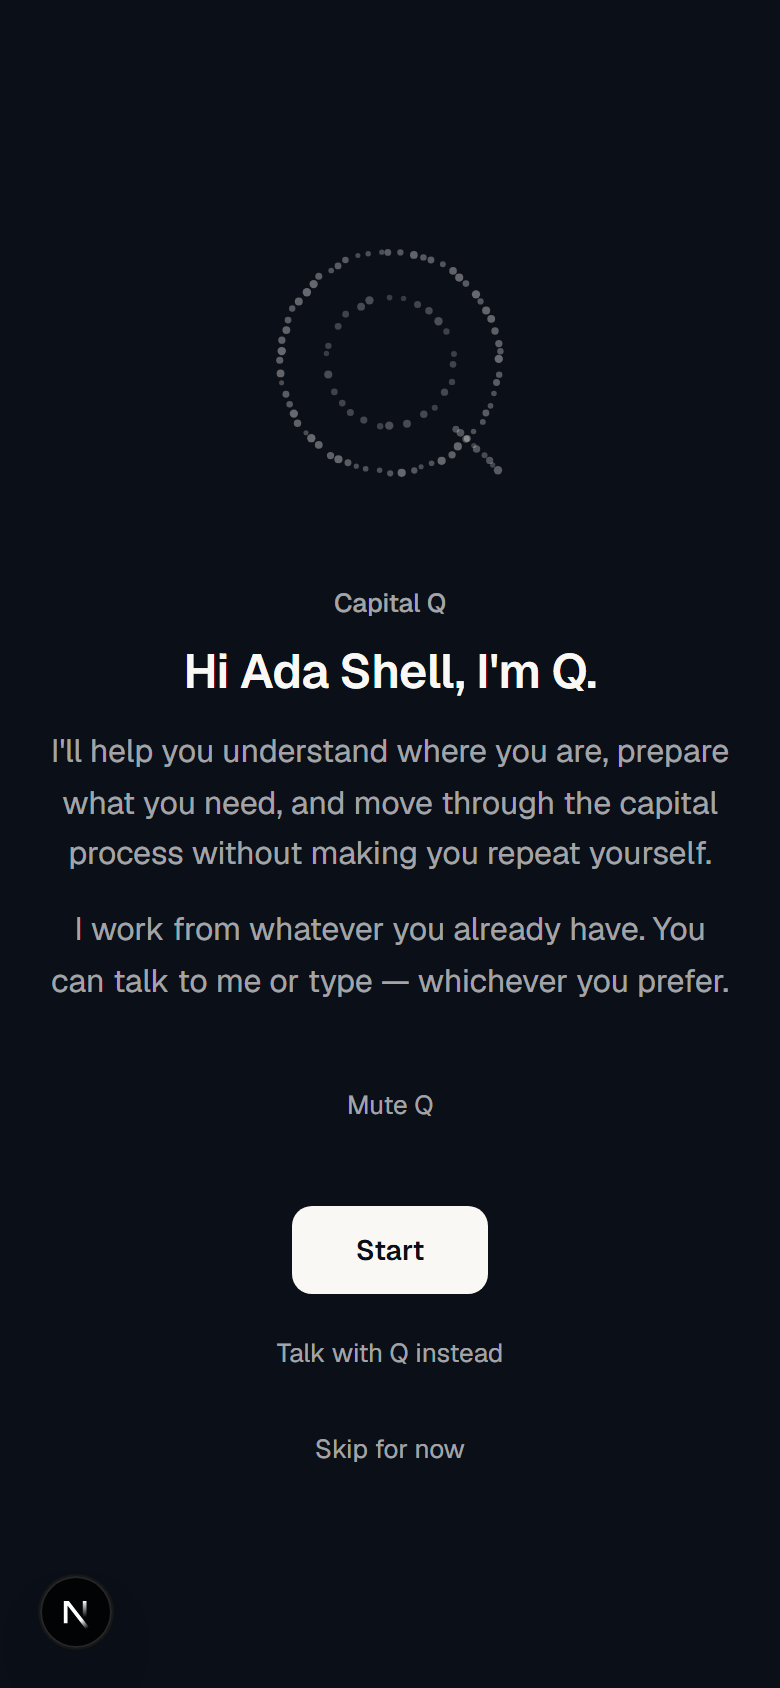
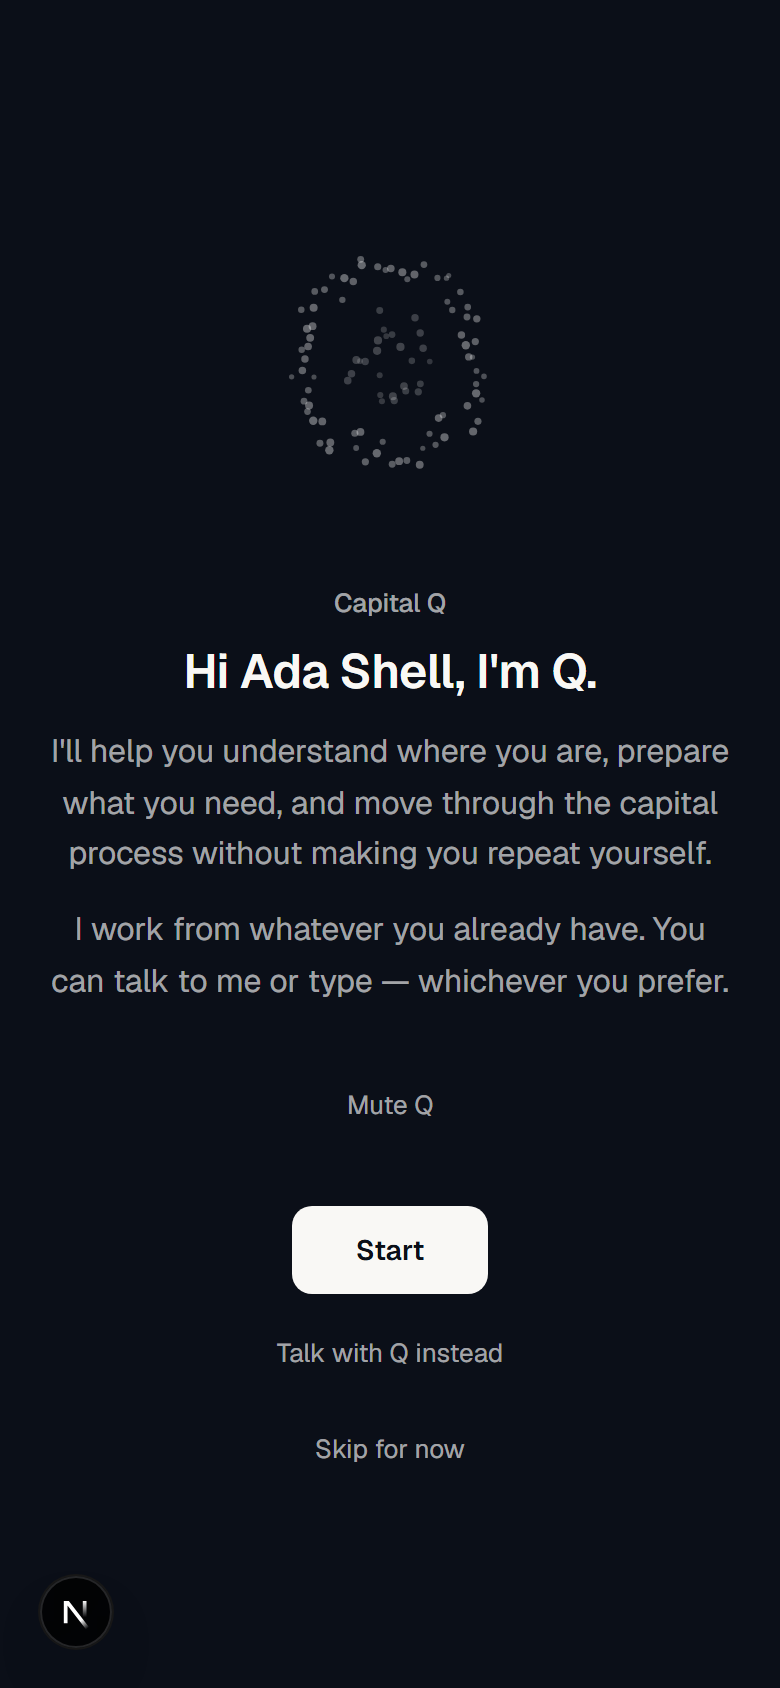
Q shell A4: the presence is a swarm, not a letterform
The field drew a Q -- two rings and a tail -- and the sprint brief asks
for a swarm presence with no letter. The formation is now a loose
annulus with a sparser cloud inside it, and the seven states are carried
by its radius, density and coherence rather than by a glyph: idle drifts
loose and quiet; listening opens and loosens with the person's voice;
thinking draws in, tightens toward order and turns; speaking pulses
outward in rhythm with Q's own voice; an action sweeps once to the side;
a settle pulses once and gathers; an error scatters and dims. The cloud
gathers less than the band, so an ordered field is a ring around a
cluster and never a bullseye.

Same component API, same states, same tokens, same still frame under
reduced motion; only features/q-presence/particle-field.ts changes.
Gallery and Home/Welcome captures re-taken.

Changed region(s): [[0.3385, 0.154, 0.6462, 0.2773]]

diff --git a/apps/web/src/features/q-presence/particle-field.ts b/apps/web/src/features/q-presence/particle-field.ts
@@ -1,26 +1,29 @@
 import type { QPresenceState } from "./presence-state";
 
 /**
- * The particle formation behind Q's presence.
+ * The swarm behind Q's presence.
  *
- * A ring of points with a short tail at the lower right — the shape of a
- * Q, read at a glance and never drawn as a letter. Every particle has a
- * home on that formation and is eased toward a target that the state
- * moves: outward and loosened by the person's voice, inward and ordered
- * while Q thinks, brightened by Q's own voice, swept sideways once when Q
- * acts, settled with one pulse when it is done, and roughened — not
- * reddened — when something is wrong.
+ * Not a letter. A loose annulus of points — a band, with a sparser cloud
+ * inside it — whose radius, density and coherence carry what Q is doing.
+ * At rest the band is loose and drifting; the person's voice opens and
+ * loosens it; Q's thinking draws it in, tightens it into near-order and
+ * turns it; Q's own voice pulses it outward in rhythm; an action sweeps
+ * it once to the side; a settle pulses it once and stills it; an error
+ * scatters and dims it — never reddens, never flashes.
  *
  * Pure arithmetic over a plain array; no DOM here. The component owns the
  * canvas and the clock. Deterministic per particle (seeded), so the same
- * presence looks the same on every mount.
+ * presence looks the same on every mount, and the still frame under
+ * reduced motion is the same still frame every time.
  */
 
 export type Particle = {
-  /** Angle on the ring, radians. */
+  /** Angle on the annulus, radians. */
   readonly angle: number;
-  /** Which orbit: 0 outer ring, 1 inner ring, 2 tail. */
-  readonly orbit: 0 | 1 | 2;
+  /** Which population: 0 the band, 1 the inner cloud. */
+  readonly orbit: 0 | 1;
+  /** Where in its population's radial range this particle rests, 0..1. */
+  readonly depth: number;
   /** Per-particle phase for drift, 0..2π. */
   readonly phase: number;
   /** Per-particle scalar in 0..1, for size and drift amplitude. */
@@ -32,7 +35,7 @@ export type Particle = {
 
 export type Formation = {
   readonly particles: Particle[];
-  /** Radius of the outer ring at rest, in canvas units. */
+  /** Outer radius of the band at rest, in canvas units. */
   readonly radius: number;
 };
 
@@ -48,21 +51,28 @@ function seeded(seed: number): () => number {
   };
 }
 
+/** The band occupies this share of the radius; the cloud sits inside it. */
+const BAND_INNER = 0.66;
+const BAND_OUTER = 1;
+const CLOUD_INNER = 0.12;
+const CLOUD_OUTER = 0.52;
+/** Where the band gathers when it is fully coherent. */
+const BAND_MEAN = 0.84;
+
 /**
  * Lay the particles out. The count is the caller's (it follows the size);
- * roughly two thirds sit on the outer ring, a quarter on the inner ring,
- * the rest along the tail.
+ * roughly three quarters form the band, the rest the inner cloud.
  */
 export function createFormation(count: number, radius: number): Formation {
   const random = seeded(7);
   const particles: Particle[] = [];
-  const tail = Math.max(3, Math.round(count * 0.09));
-  const inner = Math.max(6, Math.round(count * 0.26));
-  const outer = Math.max(8, count - tail - inner);
-  const push = (angle: number, orbit: 0 | 1 | 2) => {
+  const cloud = Math.max(6, Math.round(count * 0.26));
+  const band = Math.max(12, count - cloud);
+  const push = (angle: number, orbit: 0 | 1) => {
     particles.push({
       angle,
       orbit,
+      depth: random(),
       phase: random() * Math.PI * 2,
       seed: random(),
       x: 0,
@@ -70,40 +80,15 @@ export function createFormation(count: number, radius: number): Formation {
       alpha: 0,
     });
   };
-  for (let i = 0; i < outer; i += 1) {
-    // Evenly spaced with a little jitter so the ring reads as a swarm and
-    // not as a dotted line.
-    push(((i + (random() - 0.5) * 0.35) / outer) * Math.PI * 2, 0);
+  for (let i = 0; i < band; i += 1) {
+    // Evenly spread with jitter, so the band reads as a swarm and never
+    // as a dotted line.
+    push(((i + (random() - 0.5) * 0.7) / band) * Math.PI * 2, 0);
   }
-  for (let i = 0; i < inner; i += 1) {
-    push(((i + (random() - 0.5) * 0.5) / inner) * Math.PI * 2 + 0.3, 1);
-  }
-  for (let i = 0; i < tail; i += 1) {
-    push((i + 0.5) / tail, 2);
+  for (let i = 0; i < cloud; i += 1) {
+    push(random() * Math.PI * 2, 1);
   }
   return { particles, radius };
-}
-
-/** Where a particle rests, before any state moves it. */
-function home(
-  particle: Particle,
-  radius: number,
-): { readonly x: number; readonly y: number } {
-  if (particle.orbit === 2) {
-    // The tail: a short stroke from the ring's lower-right edge outward,
-    // at the angle a Q's tail leaves the bowl.
-    const t = particle.angle; // 0..1 along the tail
-    const from = Math.PI * 0.25;
-    const startX = Math.cos(from) * radius * 0.82;
-    const startY = Math.sin(from) * radius * 0.82;
-    const length = radius * 0.62;
-    return {
-      x: startX + Math.cos(from) * length * t,
-      y: startY + Math.sin(from) * length * t,
-    };
-  }
-  const r = particle.orbit === 0 ? radius : radius * 0.58;
-  return { x: Math.cos(particle.angle) * r, y: Math.sin(particle.angle) * r };
 }
 
 export type FieldInput = {
@@ -139,10 +124,15 @@ export function stepFormation(formation: Formation, input: FieldInput): void {
   const voice = state === "SPEAKING" ? input.output : 0;
 
   // Formation-wide parameters per state.
+  /** Overall scale of the field. */
   let spread = 1;
+  /** Rotation of the band, radians. */
   let rotation = 0;
-  let drift = 0.02;
-  let order = 0.6;
+  /** Amplitude of per-particle wander, as a share of the radius. */
+  let drift = 0.035;
+  /** 0 loose cloud … 1 a near-perfect ring. */
+  let coherence = 0.25;
+  /** Sideways sweep, as a share of the radius. */
   let shear = 0;
   let baseAlpha = 0.55;
   let breathe = still ? 0 : Math.sin(time * 0.55) * 0.012;
@@ -151,27 +141,28 @@ export function stepFormation(formation: Formation, input: FieldInput): void {
     case "IDLE":
       break;
     case "LISTENING":
-      // Opens with the voice: the ring widens, loosens, and brightens.
-      spread = 1.04 + level * 0.22;
-      drift = 0.05 + level * 0.06;
-      order = 0.4;
+      // Opens with the voice: wider, looser, brighter — receptive.
+      spread = 1.04 + level * 0.2;
+      drift = 0.05 + level * 0.05;
+      coherence = 0.15;
       baseAlpha = 0.7 + level * 0.3;
       breathe = 0;
       break;
     case "THINKING":
-      // Converges and turns, in order: work, not waiting.
-      spread = 0.86;
-      rotation = still ? 0 : time * 0.45;
+      // Draws in, tightens toward order, and turns: work, not waiting.
+      spread = 0.84;
+      rotation = still ? 0 : time * 0.5;
       drift = 0.012;
-      order = 0.95;
+      coherence = 0.9;
       baseAlpha = 0.8;
       breathe = still ? 0 : Math.sin(time * 1.6) * 0.02;
       break;
     case "SPEAKING":
-      // Q's own voice moves the ring a little; less than the person's.
-      spread = 1 + voice * 0.1;
+      // Q's own voice pulses the field outward in rhythm; gathered enough
+      // to read as one voice, looser than thought.
+      spread = 1 + voice * 0.14;
       drift = 0.03;
-      order = 0.7;
+      coherence = 0.55;
       baseAlpha = 0.75 + voice * 0.25;
       breathe = 0;
       break;
@@ -180,25 +171,25 @@ export function stepFormation(formation: Formation, input: FieldInput): void {
       const t = Math.min(1, sinceState / 0.7);
       shear = Math.sin(t * Math.PI) * 0.35;
       spread = 1 - Math.sin(t * Math.PI) * 0.08;
-      order = 0.9;
+      coherence = 0.8;
       baseAlpha = 0.85;
       breathe = 0;
       break;
     }
     case "SUCCESS": {
-      // A single settle: out a touch, then home, slightly brighter.
+      // A single settle: out a touch, then home, gathered and brighter.
       const t = Math.min(1, sinceState / 0.6);
       spread = 1 + Math.sin(t * Math.PI) * 0.06;
-      order = 0.95;
+      coherence = 0.85;
       baseAlpha = 0.8;
       breathe = 0;
       break;
     }
     case "ERROR":
-      // Disturbed, dimmer, never flashing.
+      // Scattered, dimmer, never flashing.
       spread = 0.98;
-      drift = still ? 0.05 : 0.07;
-      order = 0.25;
+      drift = still ? 0.06 : 0.08;
+      coherence = 0;
       baseAlpha = 0.45;
       breathe = 0;
       break;
@@ -207,37 +198,43 @@ export function stepFormation(formation: Formation, input: FieldInput): void {
   // Under reduced motion the formation is its resting shape for the state,
   // with the same per-particle offsets every time, and nothing moves.
   const ease = still ? 1000 : 6;
+  const cos = Math.cos(rotation);
+  const sin = Math.sin(rotation);
 
   for (const particle of particles) {
-    const rest = home(particle, radius);
+    // Where this particle rests in its population's radial range, pulled
+    // toward the band's mean as coherence rises. The cloud gathers too,
+    // but keeps its own inner place: it never joins the band.
+    const loose =
+      particle.orbit === 0
+        ? BAND_INNER + (BAND_OUTER - BAND_INNER) * particle.depth
+        : CLOUD_INNER + (CLOUD_OUTER - CLOUD_INNER) * particle.depth;
+    // The cloud gathers less than the band, so an ordered field is a ring
+    // around a cluster and never a bullseye.
+    const gathered = particle.orbit === 0 ? BAND_MEAN : CLOUD_OUTER * 0.7;
+    const pull = particle.orbit === 0 ? coherence : coherence * 0.5;
+    const r = (loose + (gathered - loose) * pull) * radius;
+    const rx = Math.cos(particle.angle) * r;
+    const ry = Math.sin(particle.angle) * r;
+    // Drift: a slow, per-particle wander whose amplitude the state sets;
+    // coherence damps it so an ordered field is also a calmer one.
+    const wander = drift * radius * (1 - coherence * 0.7);
+    const wx = still
+      ? (particle.seed - 0.5) * wander * 2
+      : Math.sin(time * (0.6 + particle.seed * 0.5) + particle.phase) * wander;
+    const wy = still
+      ? (particle.phase / (Math.PI * 2) - 0.5) * wander * 2
+      : Math.cos(time * (0.5 + particle.seed * 0.4) + particle.phase) * wander;
     const scale = spread + breathe;
-    // Drift: a slow, per-particle wander whose amplitude the state sets.
-    const wobble = still
-      ? (particle.seed - 0.5) * drift * radius * 2
-      : Math.sin(time * (0.6 + particle.seed * 0.5) + particle.phase) *
-        drift *
-        radius;
-    const wobbleY = still
-      ? (particle.phase / (Math.PI * 2) - 0.5) * drift * radius * 2
-      : Math.cos(time * (0.5 + particle.seed * 0.4) + particle.phase) *
-        drift *
-        radius;
-    // Order pulls the wander back toward the formation.
-    const wx = wobble * (1 - order * 0.6);
-    const wy = wobbleY * (1 - order * 0.6);
-    // Rotation applies to the rings, not the tail — a turning tail reads
-    // as a spinner, which this must never be.
-    const cos = particle.orbit === 2 ? 1 : Math.cos(rotation);
-    const sin = particle.orbit === 2 ? 0 : Math.sin(rotation);
-    const rx = rest.x * cos - rest.y * sin;
-    const ry = rest.x * sin + rest.y * cos;
-    const targetX = rx * scale + wx + shear * radius * (0.6 + particle.seed);
-    const targetY = ry * scale + wy;
+    const targetX =
+      (rx * cos - ry * sin) * scale +
+      wx +
+      shear * radius * (0.6 + particle.seed);
+    const targetY = (rx * sin + ry * cos) * scale + wy;
     particle.x = approach(particle.x, targetX, ease, dt);
     particle.y = approach(particle.y, targetY, ease, dt);
-    // The inner ring is quieter than the outer; the tail sits between.
-    const orbitAlpha =
-      particle.orbit === 0 ? 1 : particle.orbit === 1 ? 0.7 : 0.85;
+    // The cloud is quieter than the band.
+    const orbitAlpha = particle.orbit === 0 ? 1 : 0.6;
     const targetAlpha = Math.min(
       1,
       baseAlpha * orbitAlpha * (0.75 + particle.seed * 0.35),
